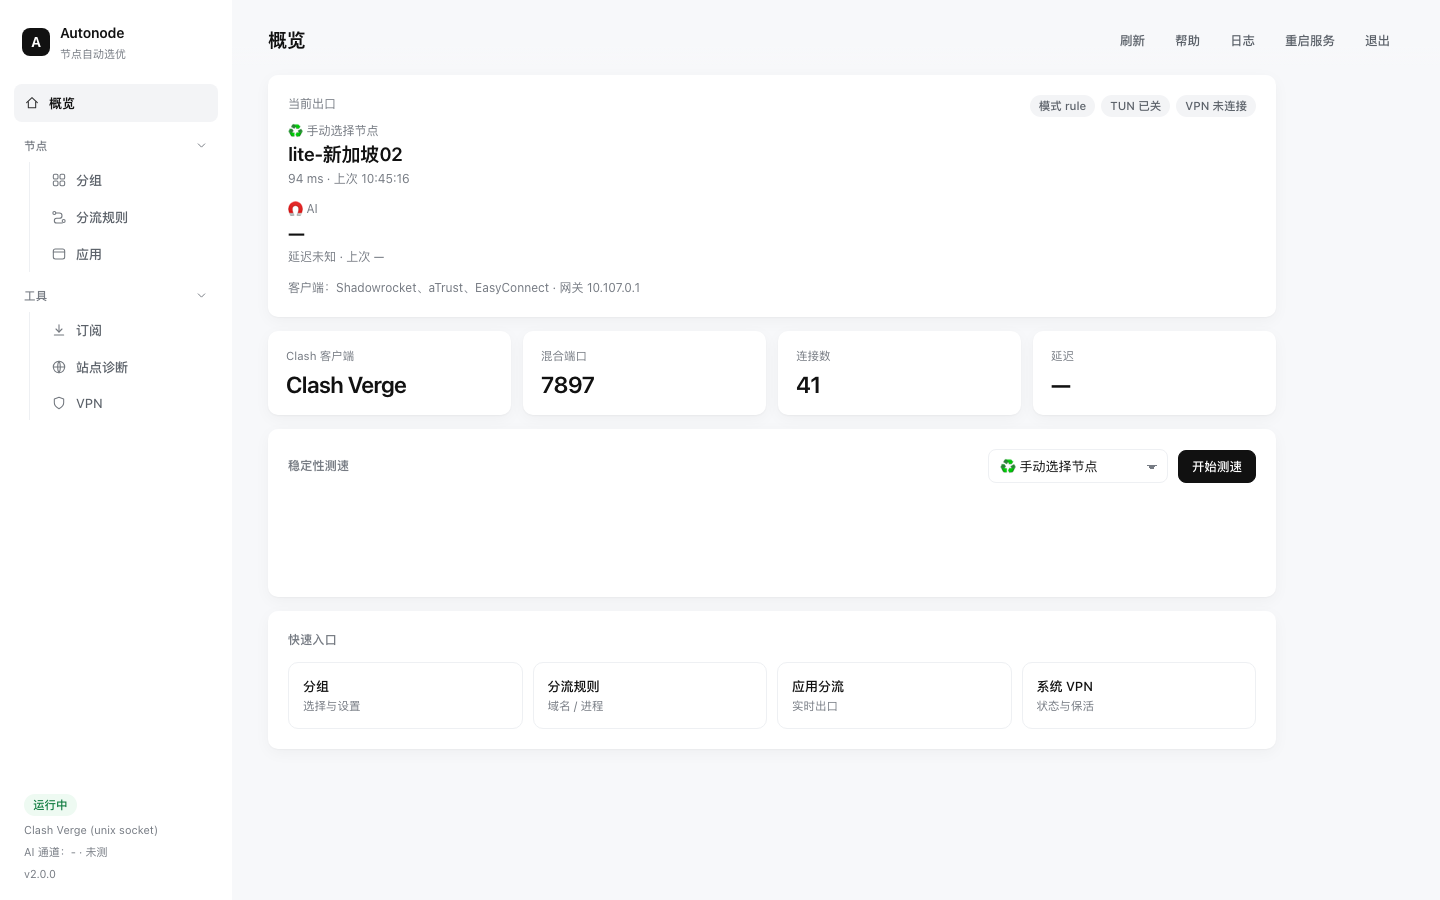
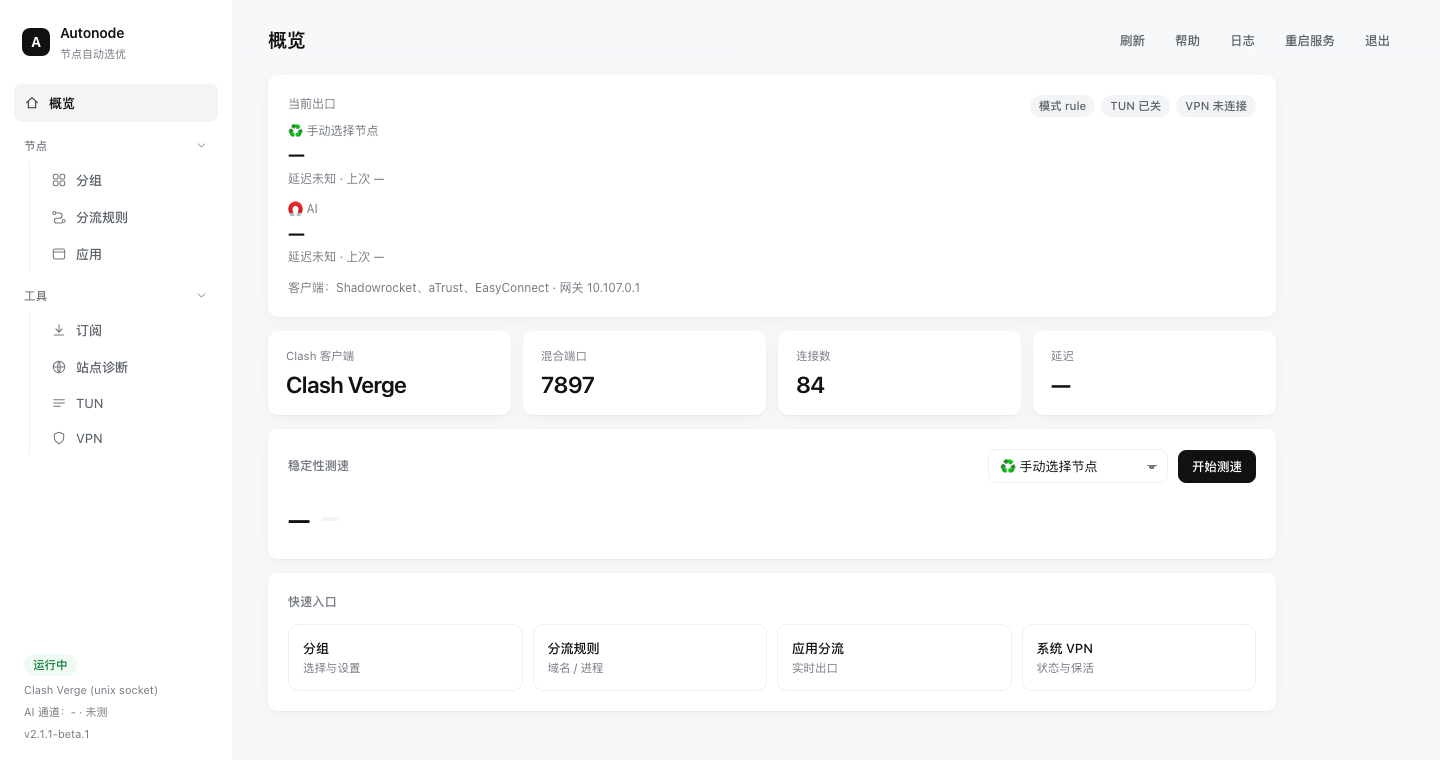
style: 测速区域简化为结果 + 稳定性评定

diff --git a/autonode.py b/autonode.py
@@ -40,7 +40,7 @@ import webbrowser
 from datetime import datetime
 from http.server import BaseHTTPRequestHandler, ThreadingHTTPServer
 
-VERSION = "2.1.1-beta.1"
+VERSION = "2.1.1-beta.2"
 
 BASE_DIR = os.path.expanduser("~/.config/autonode")
 CONFIG_FILE = os.path.join(BASE_DIR, "config.json")
@@ -2077,8 +2077,10 @@ pre{background:#f7f8fa;border-radius:10px;padding:14px;max-height:60vh;overflow:
       <div class="row"><select id="ov-group" style="width:180px"></select>
         <button class="primary" id="ov-test">开始测速</button></div>
     </div>
-    <div id="ov-bars" class="bars" style="margin-top:16px"></div>
-    <div class="muted" id="ov-test-msg" style="margin-top:14px"></div>
+    <div class="row" style="margin-top:16px;gap:12px">
+      <span id="ov-result" style="font-size:26px;font-weight:600;letter-spacing:-.02em">—</span>
+      <span id="ov-stab" class="badge" hidden></span>
+    </div>
   </div>
 
   <div class="card">
@@ -2641,26 +2643,38 @@ function loadOverview(){
 if(el('ov-test')) el('ov-test').onclick = function(){
   var clash = !!window.__ovClash;
   var gid = el('ov-group').value;
-  if(clash && !gid){ el('ov-test-msg').textContent = '没有可用分组'; return; }
+  if(clash && !gid){ el('ov-result').textContent = '无可用分组'; return; }
   el('ov-test').disabled = true;
-  el('ov-test-msg').textContent = '测速中…（串行 3 次）';
-  el('ov-bars').innerHTML = '';
+  el('ov-result').textContent = '测速中…';
+  el('ov-stab').hidden = true;
 
   var url = clash ? ('/api/latency?id=' + encodeURIComponent(gid)) : '/api/net-latency';
   get(url).then(function(d){
     el('ov-test').disabled = false;
-    if(!d.ok){ el('ov-test-msg').textContent = d.error || '测速失败'; return; }
-    var max = 1;
-    (d.samples || []).forEach(function(x){ if(x && x > max) max = x; });
-    el('ov-bars').innerHTML = (d.samples || []).map(function(x){
-      var h = Math.max(8, Math.round(((x || max) / max) * 56));
-      return '<div class="bar" style="height:' + h + 'px' + (x ? '' : ';background:#f0d9d7') + '"></div>';
-    }).join('');
-    el('ov-delay').textContent = d.avg ? (d.avg + ' ms') : '—';
-    el('ov-delay-foot').textContent = '抖动 ' + (d.jitter || 0) + ' ms · ' + d.ok_count + '/3 成功';
-    el('ov-test-msg').textContent = (clash ? d.node : '系统 VPN 直连') + ' · 最小 ' + (d.min || '-')
-      + ' / 平均 ' + (d.avg || '-') + ' / 最大 ' + (d.max || '-');
-  }).catch(function(){ el('ov-test').disabled = false; el('ov-test-msg').textContent = '请求失败'; });
+    if(!d.ok){
+      el('ov-result').textContent = d.error || '测速失败';
+      return;
+    }
+    el('ov-result').textContent = (d.avg || '—') + ' ms';
+
+    var jitter = d.jitter || 0;
+    var okCount = d.ok_count || 0;
+    var avg = d.avg || 0;
+    var stable = okCount === 3 && jitter <= Math.max(30, Math.round(avg * 0.25));
+    var mid = okCount === 3 && jitter <= Math.max(80, Math.round(avg * 0.6));
+
+    var badge = el('ov-stab');
+    badge.hidden = false;
+    if(stable){ badge.textContent = '稳定'; badge.className = 'badge ok'; }
+    else if(mid){ badge.textContent = '一般'; badge.className = 'badge warn'; }
+    else { badge.textContent = '不稳定'; badge.className = 'badge bad'; }
+
+    el('ov-delay').textContent = (d.avg || '—') + ' ms';
+    if(el('ov-delay-foot')) el('ov-delay-foot').textContent = '';
+  }).catch(function(){
+    el('ov-test').disabled = false;
+    el('ov-result').textContent = '请求失败';
+  });
 };
 
 document.addEventListener('click', function(e){
